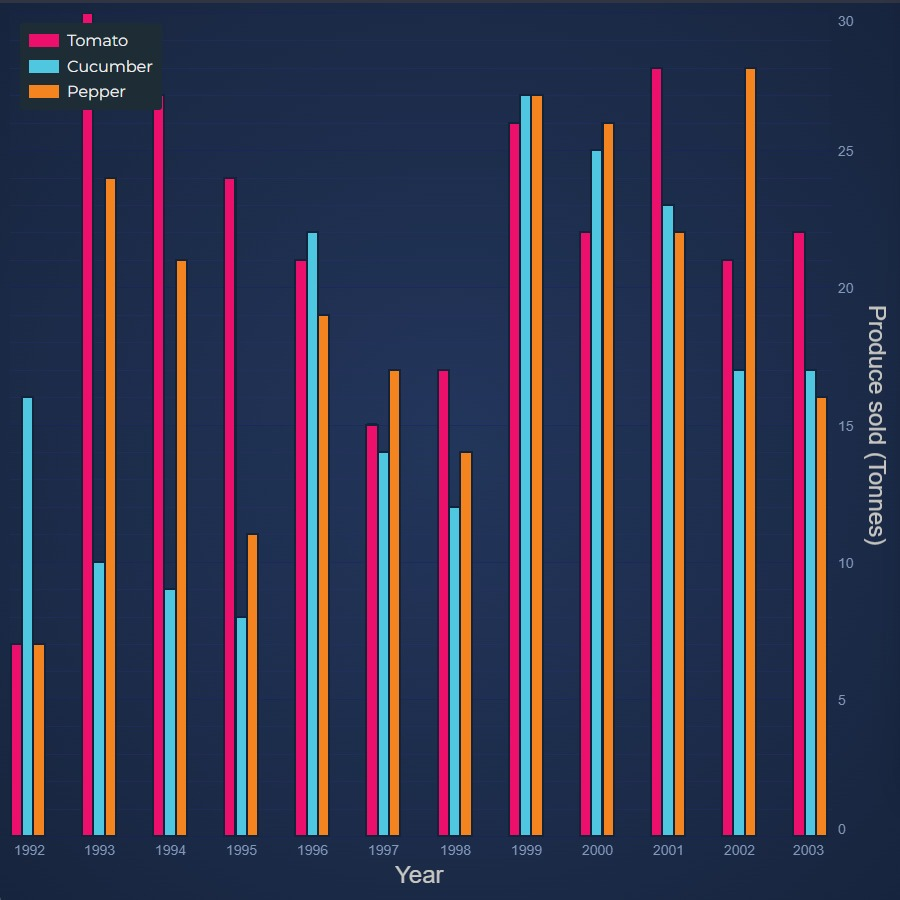
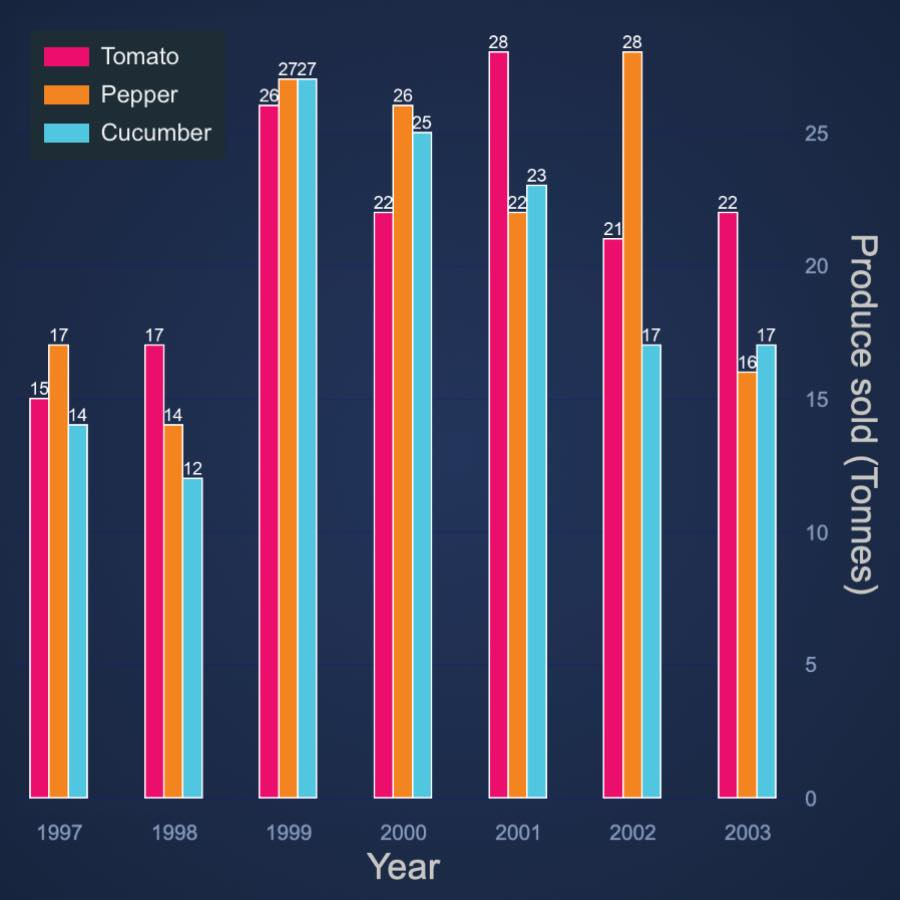
chore(web) - updated preview images for some examples which were re-worked

diff --git a/Examples/src/components/Examples/Charts2D/BasicChartTypes/StackedColumnSideBySide/drawExample.ts b/Examples/src/components/Examples/Charts2D/BasicChartTypes/StackedColumnSideBySide/drawExample.ts
@@ -72,7 +72,7 @@ export const drawExample = async (rootElement: string | HTMLDivElement) => {
     // Notice the stackedGroupId. This defines if series are stacked (same), or grouped side by side (different)
     const rendSeries1 = new StackedColumnRenderableSeries(wasmContext, {
         dataSeries: new XyDataSeries(wasmContext, { xValues, yValues: tomatoesData, dataSeriesName: "Tomato" }),
-        fill: appTheme.VividRed,
+        fill: appTheme.VividPink,
         stroke: "white",
         stackedGroupId: "Group0",
         dataLabels
@@ -80,7 +80,7 @@ export const drawExample = async (rootElement: string | HTMLDivElement) => {
 
     const rendSeries2 = new StackedColumnRenderableSeries(wasmContext, {
         dataSeries: new XyDataSeries(wasmContext, { xValues, yValues: pepperData, dataSeriesName: "Pepper" }),
-        fill: appTheme.MutedOrange,
+        fill: appTheme.VividOrange,
         stroke: "white",
         stackedGroupId: "Group1",
         dataLabels
@@ -88,7 +88,7 @@ export const drawExample = async (rootElement: string | HTMLDivElement) => {
 
     const rendSeries3 = new StackedColumnRenderableSeries(wasmContext, {
         dataSeries: new XyDataSeries(wasmContext, { xValues, yValues: cucumberData, dataSeriesName: "Cucumber" }),
-        fill: appTheme.VividTeal,
+        fill: appTheme.VividSkyBlue,
         stroke: "white",
         stackedGroupId: "Group2",
         dataLabels
@@ -114,8 +114,6 @@ export const drawExample = async (rootElement: string | HTMLDivElement) => {
             showLegend: true,
             showCheckboxes: false,
             showSeriesMarkers: true,
-            backgroundColor: "#FFFFFFEE",
-            textColor: "black",
         })
     );
 

diff --git a/Examples/src/components/Examples/Charts2D/BasicChartTypes/SmoothStackedMountainChart/exampleInfo.tsx b/Examples/src/components/Examples/Charts2D/BasicChartTypes/SmoothStackedMountainChart/exampleInfo.tsx
@@ -2,7 +2,7 @@ import * as React from "react";
 import { TExampleInfo } from "../../../../AppRouter/examplePages";
 import { ExampleStrings } from "../../../ExampleStrings";
 import { TDocumentationLink } from "../../../../../helpers/types/ExampleDescriptionTypes";
-import exampleImage from "./javascript-stacked-mountain-chart.jpg";
+import exampleImage from "./javascript-smooth-stacked-mountain-chart.jpg";
 
 const description = `Smooth Stacked Mountain Charts can be created in JavaScript using SciChart.js. An mountain or area is rendered from the
     Y-value of each stacked mountain series to the Y-value of the next.
